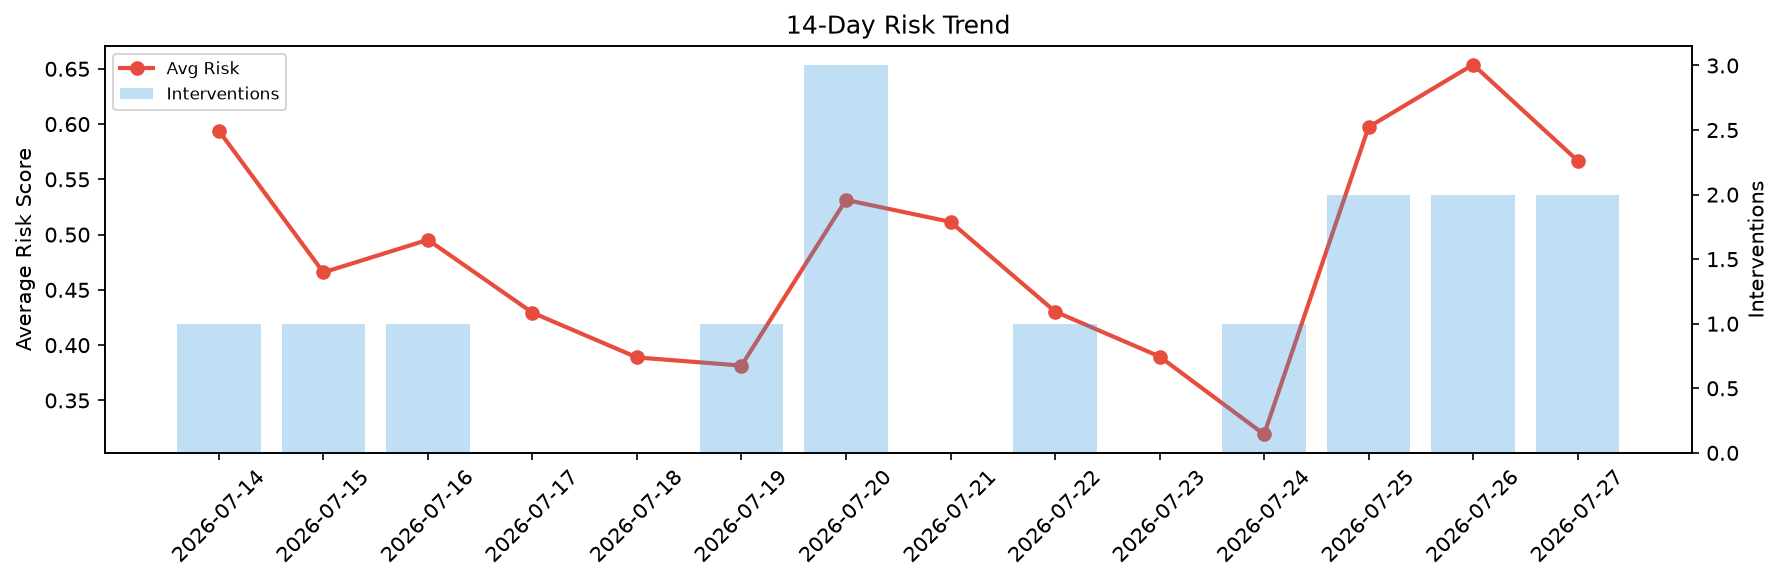
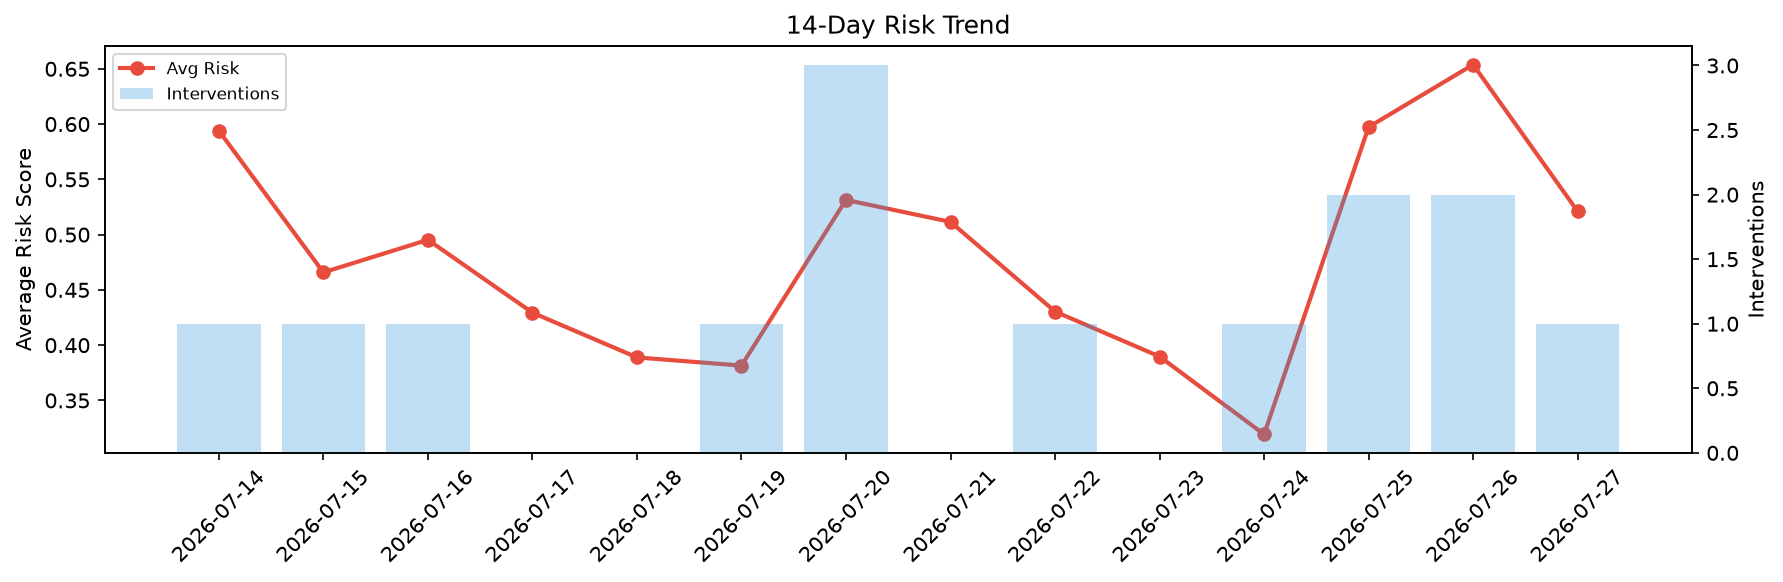
agent-improvement: daily cycle 2026-07-27T16:34

Changed region(s): [[0.8329, 0.1237, 0.9254, 0.5567]]

diff --git a/logs/2026-07-27.md b/logs/2026-07-27.md
@@ -1,6 +1,6 @@
 # Agent Improvement Report — 2026-07-27
 
-**Cycle ID:** `a64bd3b0` | **Avg Risk:** 0.5669 | **Interventions:** 2/4
+**Cycle ID:** `f5c83c51` | **Avg Risk:** 0.521 | **Interventions:** 1/4
 
 ![Dashboard](2026-07-27_dashboard.png)
 
@@ -10,18 +10,18 @@
 
 | Domain | Risk Score | Decision | Alerts |
 |--------|-----------|----------|--------|
-| code_review | 0.6227 | intervene | coverage |
-| incident_response | 0.8417 | intervene | blast_radius, mttr |
-| data_pipeline | 0.2226 | monitor | none |
-| deployment | 0.5807 | monitor | rollback_rate |
+| code_review | 0.5363 | monitor | complexity |
+| incident_response | 0.5081 | monitor | blast_radius |
+| data_pipeline | 0.2887 | monitor | none |
+| deployment | 0.7509 | intervene | latency_p99 |
 
 ## Delta vs Yesterday
 
 | Domain | Today | Yesterday | Change |
 |--------|-------|-----------|--------|
-| code_review | 0.6227 | 0.7913 | 📉 -21.3% |
-| incident_response | 0.8417 | 0.5887 | 📈 43.0% |
-| data_pipeline | 0.2226 | 0.3528 | 📉 -36.9% |
-| deployment | 0.5807 | 0.8823 | 📉 -34.2% |
+| code_review | 0.5363 | 0.7913 | 📉 -32.2% |
+| incident_response | 0.5081 | 0.5887 | 📉 -13.7% |
+| data_pipeline | 0.2887 | 0.3528 | 📉 -18.2% |
+| deployment | 0.7509 | 0.8823 | 📉 -14.9% |
 
-**Refinement:** `{'adjustment': 'maintain', 'trend': 'improving', 'window': 4}`
+**Refinement:** `{'adjustment': 'tighten_thresholds', 'trend': 'degrading', 'window': 4}`
